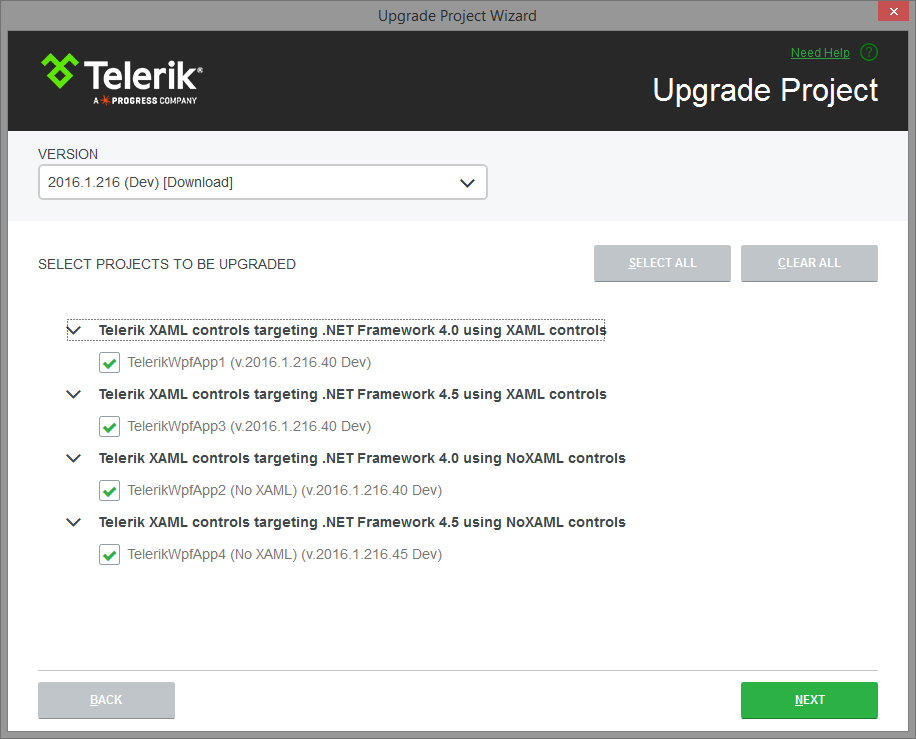
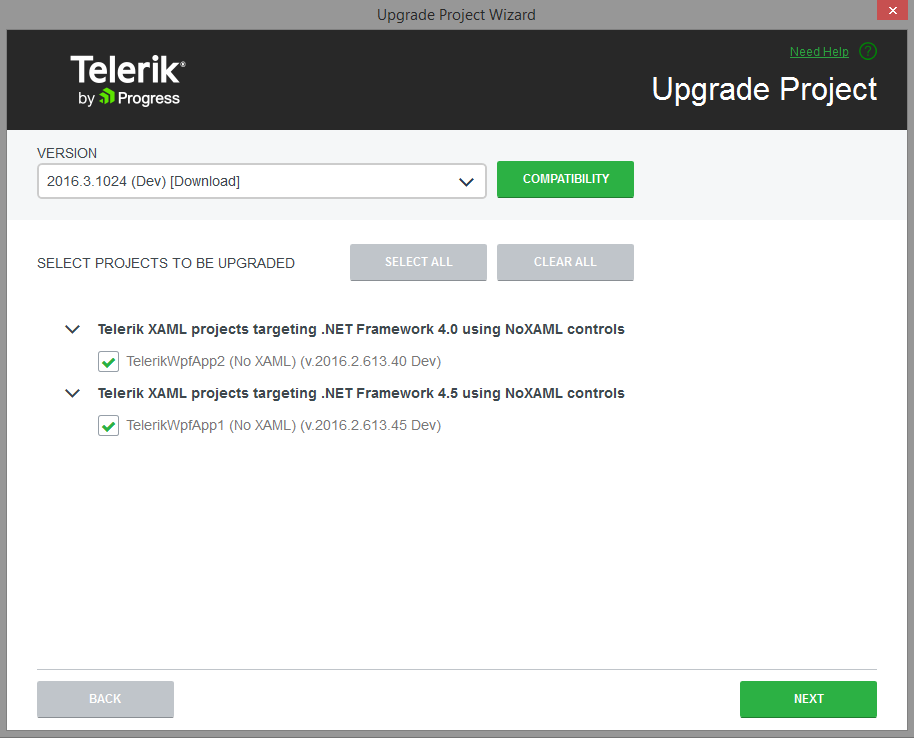
Updated Upgrade wizard documentation in relation with Compatibility button. Updated screenshot.

diff --git a/visual-studio-extensions/for-wpf-vs-extensions-upgrading.md b/visual-studio-extensions/for-wpf-vs-extensions-upgrading.md
@@ -13,42 +13,42 @@ site_name: WPF
 
 
 
-## 
+##
 
 An important feature in the Visual Studio Extensions is the __Project Upgrade Wizard__.
 
-The Upgrade Wizard (started by using the __Telerik > UI for WPF > Upgrade Wizard__ menu item) is used to change the version of __UI for WPF__ your project uses. 
+The Upgrade Wizard (started by using the __Telerik > UI for WPF > Upgrade Wizard__ menu item) is used to change the version of __UI for WPF__ your project uses.
 
-In addition to the pure assembly reference change, the upgrade wizard provides several important features: 
+In addition to the pure assembly reference change, the upgrade wizard provides several important features:
 
 * Check if a new version of __UI for WPF__ is available on the Telerik website.
 
-* Download of a newly discovered version. 
+* Download of a newly discovered version.
 
-* Visual Studio toolbox update. 
+* Visual Studio toolbox update.
 
 * Project themes upgrade (when using [implicit styles]({%slug styling-apperance-implicit-styles-overview%})).
 
-* Current project backup. 
+* Current project backup.
 
 On the first step the wizard provides basic update process information  
 
 ![VSExtentions WPF Upgrade Wizard Initial Page](images/VSExtentions_WPF_UpgradeWizardInitialPage.png)
 
 
-You can choose which projects will be updated (it is recommended to upgrade all projects to the chosen version, not just part of them) and the version which they will be upgraded to and whether or not all binaries should get copied to your solution folder (useful when utilizing a build server or working on a project collaboratively):
+You can choose which projects will be updated (it is recommended to upgrade all projects to the chosen version, not just part of them) and the version which they will be upgraded to and whether or not all binaries should get copied to your solution folder (useful when utilizing a build server or working on a project collaboratively). The Compatibility button will invoke the [Upgrade API Analyzer tool](http://docs.telerik.com/devtools/wpf/upgrade-api-analyzer):
 
 ![VSExtentions WPF Upgrade Wizard](images/VSExtentions_WPF_UpgradeWizard.png)
 
-The next screen allows you to update the Visual Studio Toolbox with the newly selected controls, so that you avoid accidental reference change during a control drag and drop, as well as creating a backup of your project: 
+The next screen allows you to update the Visual Studio Toolbox with the newly selected controls, so that you avoid accidental reference change during a control drag and drop, as well as creating a backup of your project:
 
 ![VSExtentions WPF Upgrade Wizard Toolbox](images/VSExtentions_WPF_UpgradeWizardOptions.png)
 
-Notes: 
+Notes:
 
-* The distribution selection screen lists all the UI for WPF versions that can be detected automatically. These are versions, installed by using the Windows Installer MSI package, versions, downloaded by the Upgrade Wizard and versions. Hotfixes, downloaded manually cannot be detected. 
+* The distribution selection screen lists all the UI for WPF versions that can be detected automatically. These are versions, installed by using the Windows Installer MSI package, versions, downloaded by the Upgrade Wizard and versions. Hotfixes, downloaded manually cannot be detected.
 
-* You can use the __GET LATEST__ button to access the Latest Version Acquirer and download the latest available version on our website. 
+* You can use the __GET LATEST__ button to access the Latest Version Acquirer and download the latest available version on our website.
 
 * The distribution, downloaded by the Upgrade Wizard contains only the "hotfix" files, e.g. the barebone files, needed for a project to run correctly. It does not contain the documentation or the Live Examples.
 
